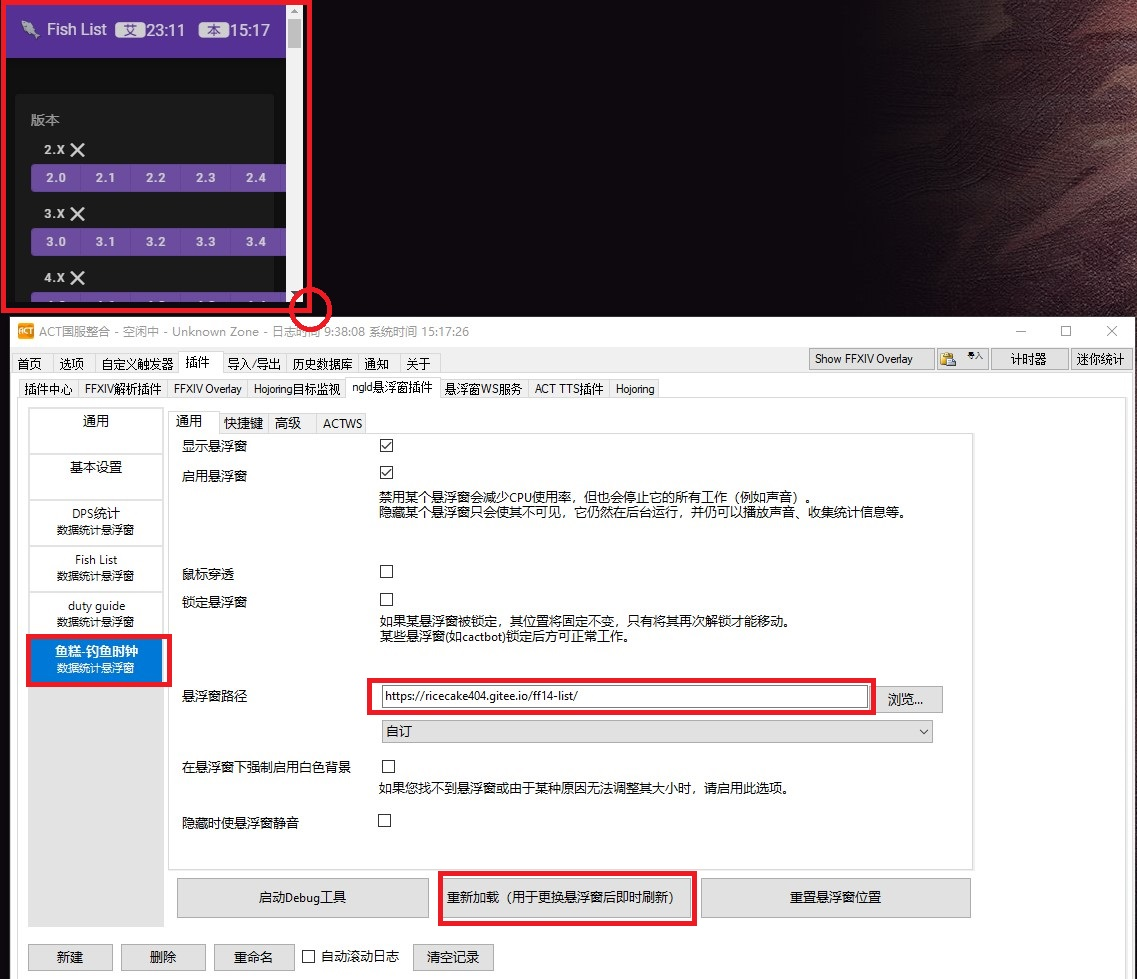
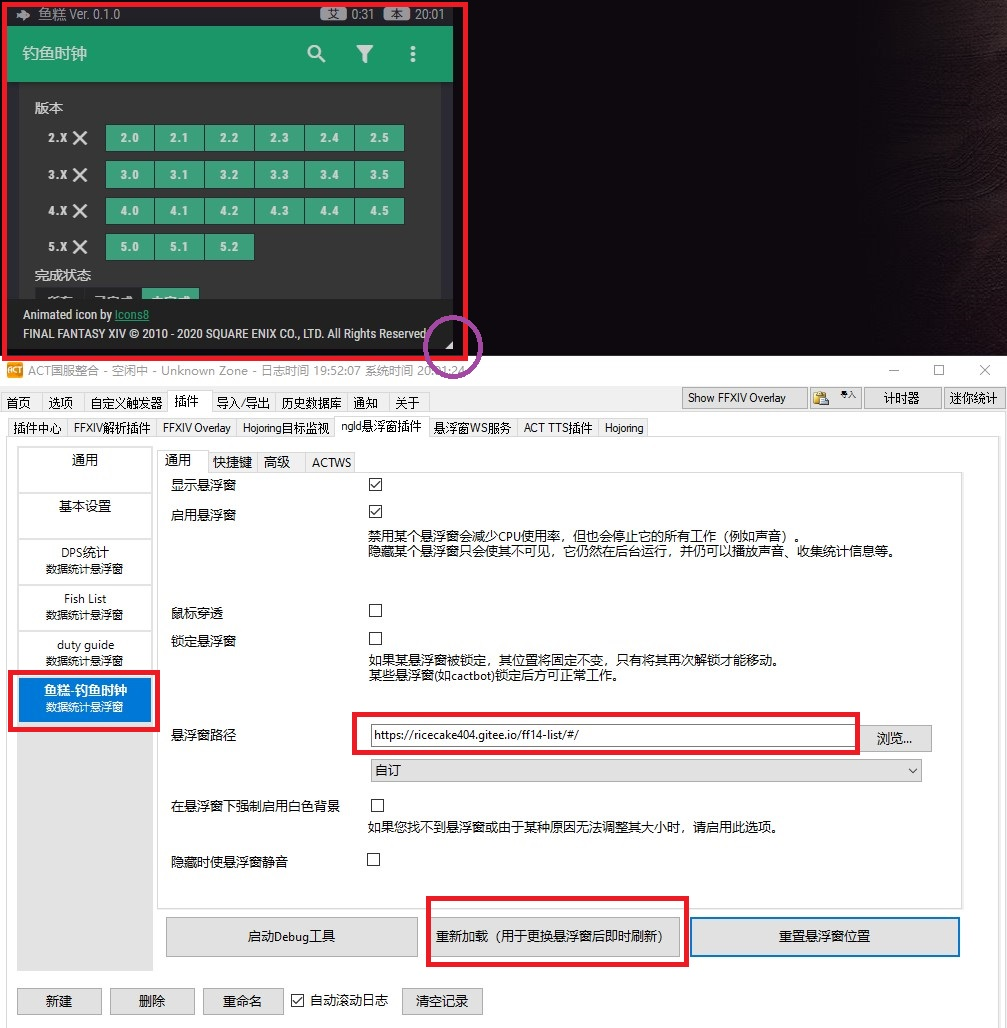
update help doc

diff --git a/src/App.vue b/src/App.vue
@@ -77,10 +77,10 @@
     </v-footer>
     <v-dialog v-model="showHelpDialog" :fullscreen="isMobile">
       <v-card>
-        <v-card-text v-html="helpMd" />
+        <v-card-text class="help-area" v-html="helpMd" />
         <v-card-actions>
           <div class="d-flex flex-column flex-fill">
-            <v-btn color="default" block text @click="dialog = false">{{ $t('importExport.dialog.close') }}</v-btn>
+            <v-btn color="default" block text @click="showHelpDialog = false">{{ $t('importExport.dialog.close') }}</v-btn>
           </div>
         </v-card-actions>
       </v-card>
@@ -172,5 +172,22 @@ body {
   bottom: 0;
   border-bottom: 8px solid #ffffff;
   border-left: 8px solid transparent;
+}
+
+.help-area img {
+  width: 100%;
+}
+
+.help-area h1 {
+  margin-top: 8px;
+  margin-bottom: 8px;
+}
+.help-area h2 {
+  margin-top: 8px;
+  margin-bottom: 8px;
+}
+.help-area h3 {
+  margin-top: 8px;
+  margin-bottom: 8px;
 }
 </style>

diff --git a/src/assets/doc/help.md b/src/assets/doc/help.md
@@ -1,14 +1,16 @@
-#指南
+# 帮助
 
 ## 浏览器支持
-不支持IE浏览器
+**不支持**IE浏览器
 
 ## 在ACT上使用
+### 步骤
+
 通过使用ACT的ngld悬浮窗插件可以加载本网站。
 
 1. 确保安装了ACT以及ngld悬浮窗插件
-    - [ACT](https://github.com/EQAditu/AdvancedCombatTracker) - Advanced Combat Tracker
-    - [ngld](https://github.com/ngld/OverlayPlugin) - ngld/OverlayPlugin
+    - Advanced Combat Tracker
+    - ngld/OverlayPlugin
     
 2. 选择 `插件` - `ngld悬浮窗插件`，点击下方`新建`按钮，在出现的对话框中
     - 名称：输入任意字符串
@@ -19,10 +21,12 @@
     
       ![act-create-ngld-item](act-create-ngld-item.jpg)
     
-3. 12312
+3. 在左侧栏位中选择上一步新建的悬浮窗，在 `悬浮窗路径处`填入 `https://ricecake404.gitee.io/ff14-list/#/`，点击重新加载。界面默认会显示在屏幕左上角。将鼠标移动至右下角白色三角处可以调整界面大小。
 
-    
+      ![act-config-ngld-item](act-config-ngld-item.jpg)
 
-4. 123123
+### 通过ACT使用时的一些限制
 
-5. 
+- 默认配置下无法输入，输入焦点会在游戏或其他当前打开的程序中。通过配置 `插件`-`ngld悬浮窗插件`-`（左侧栏）通用`-**不勾选**`当ACT和游戏全部最小化时自动隐藏悬浮窗`，可以输入。
+- （即使按照以上配置）仍无法使用中文输入法，因此在搜索栏中无法输入中文，可以直接用拼音搜索。
+- 当网站版本更新时，需要再次使用配置界面中`重新加载`功能刷新页面，（浏览器中直接`F5`或`Ctrl+F5`）。
